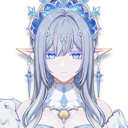
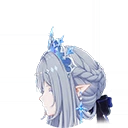
JuanLab: selettore del tema, icone di profilo di Anastasya e Danica, import da UID nei primi passi (#24)
- Tema a scelta in Impostazioni: Notte JuanLab, Genshin Optimizer classico (blu GO), Stellar (grafite e oro);
  salvato nel browser, la pagina si ricarica per applicarlo. Tutti e tre WCAG 2.1 AA (axe: nessuna violazione)
- Icone laterali vere di Anastasya e Danica (da Nanoka) al posto delle icone frontali
- Primi passi in italiano e con il pulsante "Importa da UID" (porta alla scheda di import con Enka o Akasha)
- Contrasto: Electro, grigio secondario di Stellar, passi completati e righe quasi vuote dello spazio occupato

Claude-Session: https://claude.ai/code/session_01GpVHH95wc1q8AWhb24317D

diff --git a/libs/gi/theme/src/Theme.tsx b/libs/gi/theme/src/Theme.tsx
@@ -205,23 +205,125 @@ declare module '@mui/material/SvgIcon' {
  * #211d33); warm charcoal, deep teal, a #0f0f11 graphite page and pure #000 were tried. Near-black
  * beats #000: same look, but no OLED smear when scrolling and shadows still read.
  */
-// juanlab: palette "Notte JuanLab" (i colori di juan0177.github.io/JuanLab): blu notte piatto, pannelli blu scuro,
-// oro per le azioni, azzurro per le informazioni. Niente gradienti: glow e uguale a ink.
-const surface = {
-  inkDeep: '#04060c',
-  ink: '#060810',
-  panelDark: '#0b101b',
-  panel: '#0f1626',
-  panelRaised: '#151e31',
-  panelHover: '#1b263d',
-  glow: '#060810',
-  line: '#1f2a3d',
-  muted: '#3a4660',
-} as const
+// juanlab: tre temi scuri, scelti in Impostazioni e salvati nel browser (la pagina si ricarica al cambio, perche i
+// colori sono costanti usate in tutto il sito). Tutti verificati WCAG 2.1 AA (testo 4,5:1 sui pannelli).
+// - juanlab: "Notte JuanLab" (i colori di juan0177.github.io/JuanLab): blu notte, oro per le azioni, azzurro per le info
+// - go: Genshin Optimizer classico: blu GO, pannelli blu-grigi, accento blu
+// - stellar: Stellar Optimizer: grafite, pergamena e oro
+type ThemePalette = {
+  surface: {
+    inkDeep: string
+    ink: string
+    panelDark: string
+    panel: string
+    panelRaised: string
+    panelHover: string
+    glow: string
+    line: string
+    muted: string
+  }
+  /** testo principale, come r, g, b (serve anche per le trasparenze) */
+  text: [number, number, number]
+  accent: string
+  accentLight: string
+  accentDark: string
+  info: string
+  neutral200: string
+  neutral300: string
+  neutral400: string
+}
+const themePalettes = {
+  juanlab: {
+    surface: {
+      inkDeep: '#04060c',
+      ink: '#060810',
+      panelDark: '#0b101b',
+      panel: '#0f1626',
+      panelRaised: '#151e31',
+      panelHover: '#1b263d',
+      glow: '#060810',
+      line: '#1f2a3d',
+      muted: '#3a4660',
+    },
+    text: [237, 245, 255],
+    accent: '#f5d787',
+    accentLight: '#f9e4a8',
+    accentDark: '#c9aa5a',
+    info: '#85cbff',
+    neutral200: '#d3dceb',
+    neutral300: '#a3aec2',
+    neutral400: '#8591a8',
+  },
+  go: {
+    surface: {
+      inkDeep: '#080b17',
+      ink: '#0c1020',
+      panelDark: '#172032',
+      panel: '#1b263b',
+      panelRaised: '#2a364d',
+      panelHover: '#33415c',
+      glow: '#0c1020',
+      line: '#2e3a52',
+      muted: '#4a5873',
+    },
+    text: [255, 255, 255],
+    accent: '#5aaaf0',
+    accentLight: '#86c1f5',
+    accentDark: '#1e78c8',
+    info: '#4fc3d9',
+    neutral200: '#dde3ee',
+    neutral300: '#b4bdcf',
+    neutral400: '#9aa6bd',
+  },
+  stellar: {
+    surface: {
+      inkDeep: '#050506',
+      ink: '#08080a',
+      panelDark: '#141416',
+      panel: '#19191c',
+      panelRaised: '#212124',
+      panelHover: '#2a2a2e',
+      glow: '#08080a',
+      line: '#27272b',
+      muted: '#3f3f45',
+    },
+    text: [236, 229, 216],
+    accent: '#d3bc8e',
+    accentLight: '#e6d5b1',
+    accentDark: '#a99260',
+    info: '#7aa7d9',
+    neutral200: '#d6cfc2',
+    neutral300: '#a9a397',
+    neutral400: '#9a968f',
+  },
+} as const satisfies Record<string, ThemePalette>
+export type ThemeChoice = keyof typeof themePalettes
+export const themeChoices = Object.keys(themePalettes) as ThemeChoice[]
+const THEME_KEY = 'juanlab-theme'
+export function getThemeChoice(): ThemeChoice {
+  try {
+    const saved = localStorage.getItem(THEME_KEY)
+    return saved && saved in themePalettes ? (saved as ThemeChoice) : 'juanlab'
+  } catch {
+    return 'juanlab'
+  }
+}
+/** Salva il tema e ricarica la pagina, che riparte con i colori nuovi */
+export function setThemeChoice(choice: ThemeChoice) {
+  try {
+    localStorage.setItem(THEME_KEY, choice)
+  } catch {
+    return
+  }
+  window.location.reload()
+}
+const P: ThemePalette = themePalettes[getThemeChoice()]
+const textRgba = (a: number) => `rgba(${P.text.join(', ')}, ${a})`
+const surface = P.surface
 
 const ink = surface.ink
-const parchment = '#edf5ff'
-const gold = '#f5d787'
+const parchment = `#${P.text.map((v) => v.toString(16).padStart(2, '0')).join('')}`
+const gold = P.accent
 export const giTokens = {
   ink,
   inkDeep: surface.inkDeep,
@@ -230,14 +332,14 @@ export const giTokens = {
   panelRaised: surface.panelRaised,
   panelHover: surface.panelHover,
   parchment,
-  parchmentMuted: 'rgba(237, 245, 255, 0.66)',
+  parchmentMuted: textRgba(0.66),
   gold,
-  goldLight: '#f9e4a8',
-  goldDark: '#c9aa5a',
+  goldLight: P.accentLight,
+  goldDark: P.accentDark,
   /** kept for components written against the first token set */
   starlight: gold,
-  hairline: 'rgba(237, 245, 255, 0.08)',
-  hairlineStrong: 'rgba(237, 245, 255, 0.16)',
+  hairline: textRgba(0.08),
+  hairlineStrong: textRgba(0.16),
   fontFamily: [
     'system-ui',
     '-apple-system',
@@ -271,8 +373,8 @@ const elementTheme = createTheme({
     background: { default: ink, paper: giTokens.panel },
     text: {
       primary: parchment,
-      secondary: 'rgba(237, 245, 255, 0.66)',
-      disabled: 'rgba(237, 245, 255, 0.38)',
+      secondary: textRgba(0.66),
+      disabled: textRgba(0.38),
     },
     divider: giTokens.hairline,
     primary: augment(gold, 'primary', {
@@ -282,7 +384,7 @@ const elementTheme = createTheme({
     }),
     secondary: augment(surface.muted, 'secondary', { contrastText: parchment }),
     success: augment('#5aae8b', 'success'),
-    info: augment('#85cbff', 'info'),
+    info: augment(P.info, 'info'),
     warning: augment('#e4b25c', 'warning'),
     error: augment('#df6f62', 'error'),
     contentNormal: augment(giTokens.panel, 'contentNormal'),
@@ -290,10 +392,10 @@ const elementTheme = createTheme({
     contentLight: augment(giTokens.panelRaised, 'contentLight'),
     brand500: augment(gold, 'brand500'),
     neutral100: augment(parchment, 'neutral100'),
-    neutral200: augment('#d3dceb', 'neutral200'),
-    neutral300: augment('#a3aec2', 'neutral300'),
+    neutral200: augment(P.neutral200, 'neutral200'),
+    neutral300: augment(P.neutral300, 'neutral300'),
     // juanlab: WCAG 2.1 AA, almeno 4,5:1 anche sui pannelli rialzati
-    neutral400: augment('#8591a8', 'neutral400'),
+    neutral400: augment(P.neutral400, 'neutral400'),
     neutral500: augment(surface.muted, 'neutral500'),
     neutral600: augment(surface.line, 'neutral600'),
     // the page background is a radial gradient from neutral700 (top) to neutral800
@@ -321,7 +423,7 @@ const elementTheme = createTheme({
       name: 'cryo',
     }),
     electro: commonTheme.palette.augmentColor({
-      color: { main: '#c07ae0' }, // juanlab: WCAG AA come testo sui pannelli (era #b25dcd)
+      color: { main: '#cd92e8' }, // juanlab: WCAG AA come testo sui pannelli in tutti i temi (era #b25dcd)
       name: 'electro',
     }),
     anemo: commonTheme.palette.augmentColor({

diff --git a/libs/gi/page-home/src/GettingStartedCard.tsx b/libs/gi/page-home/src/GettingStartedCard.tsx
@@ -28,6 +28,7 @@ type Step = {
  */
 export default function GettingStartedCard() {
   const { t } = useTranslation('page_home')
+  const { t: tj } = useTranslation('juanlab') // juanlab
   const database = useDatabase()
   const chars = useDataManagerValues(database.chars)
   const arts = useDataManagerValues(database.arts)
@@ -123,6 +124,17 @@ export default function GettingStartedCard() {
               >
                 {t(`gettingStarted.steps.${step.key}.action`)}
               </Button>
+              {/* juanlab: anche l'import da UID (Enka o Akasha) per personaggi, armi e manufatti */}
+              {(step.key === 'characters' || step.key === 'artifacts') && (
+                <Button
+                  size="small"
+                  variant="outlined"
+                  color="info"
+                  onClick={focusUidImport}
+                >
+                  {tj('home.gettingStartedImport')}
+                </Button>
+              )}
               {step.secondary && (
                 <Button
                   size="small"
@@ -170,7 +182,7 @@ function StepItem({
         bgcolor: 'contentLight.main',
         outline: `1px solid ${isCurrent ? giTokens.starlight : 'transparent'}`,
         outlineOffset: -1,
-        opacity: done ? 0.75 : 1,
+        opacity: done ? 0.9 : 1, // juanlab: WCAG AA anche sui passi fatti (era 0.75)
       }}
     >
       <Box
@@ -227,4 +239,11 @@ function StepItem({
       </Box>
     </Box>
   )
+}
+
+/** juanlab: porta alla scheda "Importa dalla vetrina" della home e mette il cursore nel campo dell'UID */
+function focusUidImport() {
+  const card = document.getElementById('juanlab-import-uid')
+  card?.scrollIntoView({ behavior: 'smooth', block: 'center' })
+  card?.querySelector('input')?.focus({ preventScroll: true })
 }

diff --git a/libs/gi/ui/src/juanlab/ThemeToggle.tsx b/libs/gi/ui/src/juanlab/ThemeToggle.tsx
@@ -1,0 +1,38 @@
+// juanlab: scelta del tema in Impostazioni (Notte JuanLab, Genshin Optimizer classico, Stellar). Il tema si salva nel
+// browser e la pagina si ricarica per applicarlo.
+import type { ThemeChoice } from '@genshin-optimizer/gi/theme'
+import {
+  getThemeChoice,
+  setThemeChoice,
+  themeChoices,
+} from '@genshin-optimizer/gi/theme'
+import { ToggleButton, ToggleButtonGroup, Typography } from '@mui/material'
+import { useTranslation } from 'react-i18next'
+
+export function ThemeToggle() {
+  const { t } = useTranslation('juanlab')
+  const current = getThemeChoice()
+  return (
+    <>
+      <Typography variant="subtitle2" sx={{ mb: 0.5 }}>
+        {t('theme.title')}
+      </Typography>
+      <ToggleButtonGroup
+        exclusive
+        fullWidth
+        size="small"
+        value={current}
+        onChange={(_e, next: ThemeChoice | null) =>
+          next && next !== current && setThemeChoice(next)
+        }
+        aria-label={t('theme.title')}
+      >
+        {themeChoices.map((choice) => (
+          <ToggleButton key={choice} value={choice}>
+            {t(`theme.${choice}`)}
+          </ToggleButton>
+        ))}
+      </ToggleButtonGroup>
+    </>
+  )
+}

diff --git a/libs/gi/page-settings/src/index.tsx b/libs/gi/page-settings/src/index.tsx
@@ -1,6 +1,10 @@
 import { LocalStorageUsageCard } from '@genshin-optimizer/common/react-util'
 import { PageHeader } from '@genshin-optimizer/common/ui'
-import { DatabaseCard, NavLayoutToggle } from '@genshin-optimizer/gi/ui'
+import {
+  DatabaseCard,
+  NavLayoutToggle,
+  ThemeToggle,
+} from '@genshin-optimizer/gi/ui'
 import { Box, Grid } from '@mui/material'
 import { useTranslation } from 'react-i18next'
 import LanguageCard from './LanguageCard'
@@ -23,6 +27,10 @@ export default function PageSettings() {
         {/* juanlab: barra di navigazione in alto o laterale */}
         <Grid item xs={12} sm={6}>
           <NavLayoutToggle />
+        </Grid>
+        {/* juanlab: tema */}
+        <Grid item xs={12} sm={6}>
+          <ThemeToggle />
         </Grid>
       </Grid>
       <DatabaseCard />

diff --git a/libs/common/react-util/src/Components/LocalStorageUsageCard.tsx b/libs/common/react-util/src/Components/LocalStorageUsageCard.tsx
@@ -227,10 +227,11 @@ export function LocalStorageUsageCard() {
                     <TableRow
                       key={key}
                       sx={{
+                        // juanlab: WCAG AA, le righe quasi vuote restano leggibili (era opacita 0.5)
                         opacity:
                           percentByCategory[key] > DISPLAY_PERCENT_THRESH
                             ? undefined
-                            : 0.5,
+                            : 0.85,
                       }}
                     >
                       <TableCell>

diff --git a/libs/gi/page-home/src/JuanlabCards.tsx b/libs/gi/page-home/src/JuanlabCards.tsx
@@ -69,7 +69,7 @@ export function ImportUidCard() {
   const [source, setSource] = useState(getImportSource)
   const clean = uid.replace(/\D/g, '')
   return (
-    <CardThemed>
+    <CardThemed id="juanlab-import-uid">
       <CardHeader
         title={<Typography variant="h5">{t('home.importTitle')}</Typography>}
         avatar={<CloudDownload fontSize="large" />}

diff --git a/libs/gi/ui/src/juanlab/index.ts b/libs/gi/ui/src/juanlab/index.ts
@@ -9,3 +9,4 @@ export * from './enkaToGood'
 export * from './GcwebLink'
 export * from './gcweb'
 export * from './navLayout'
+export * from './ThemeToggle'
